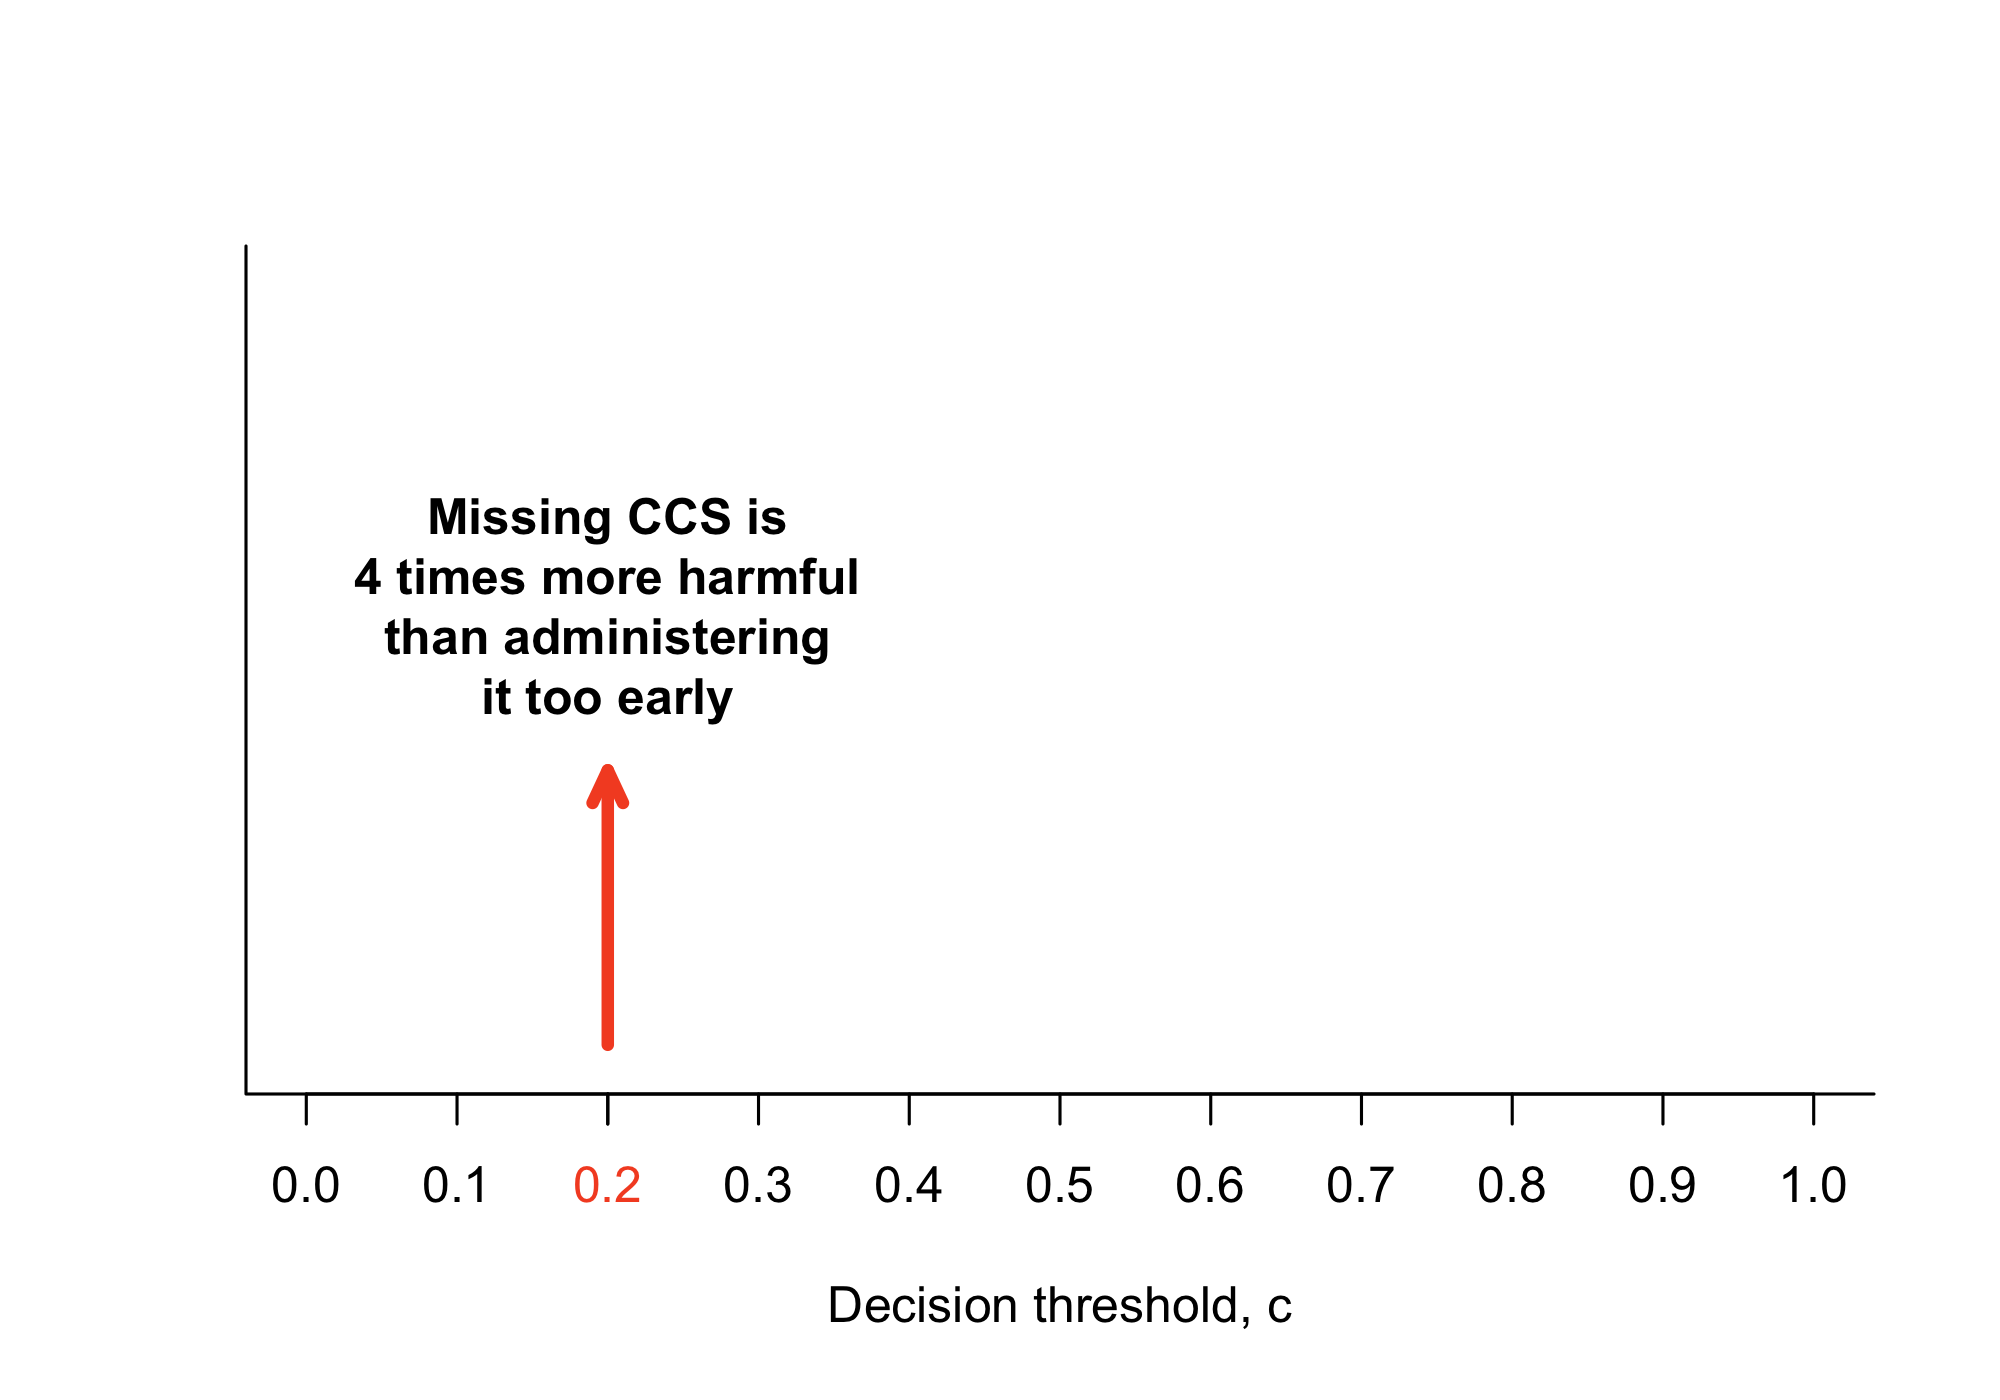
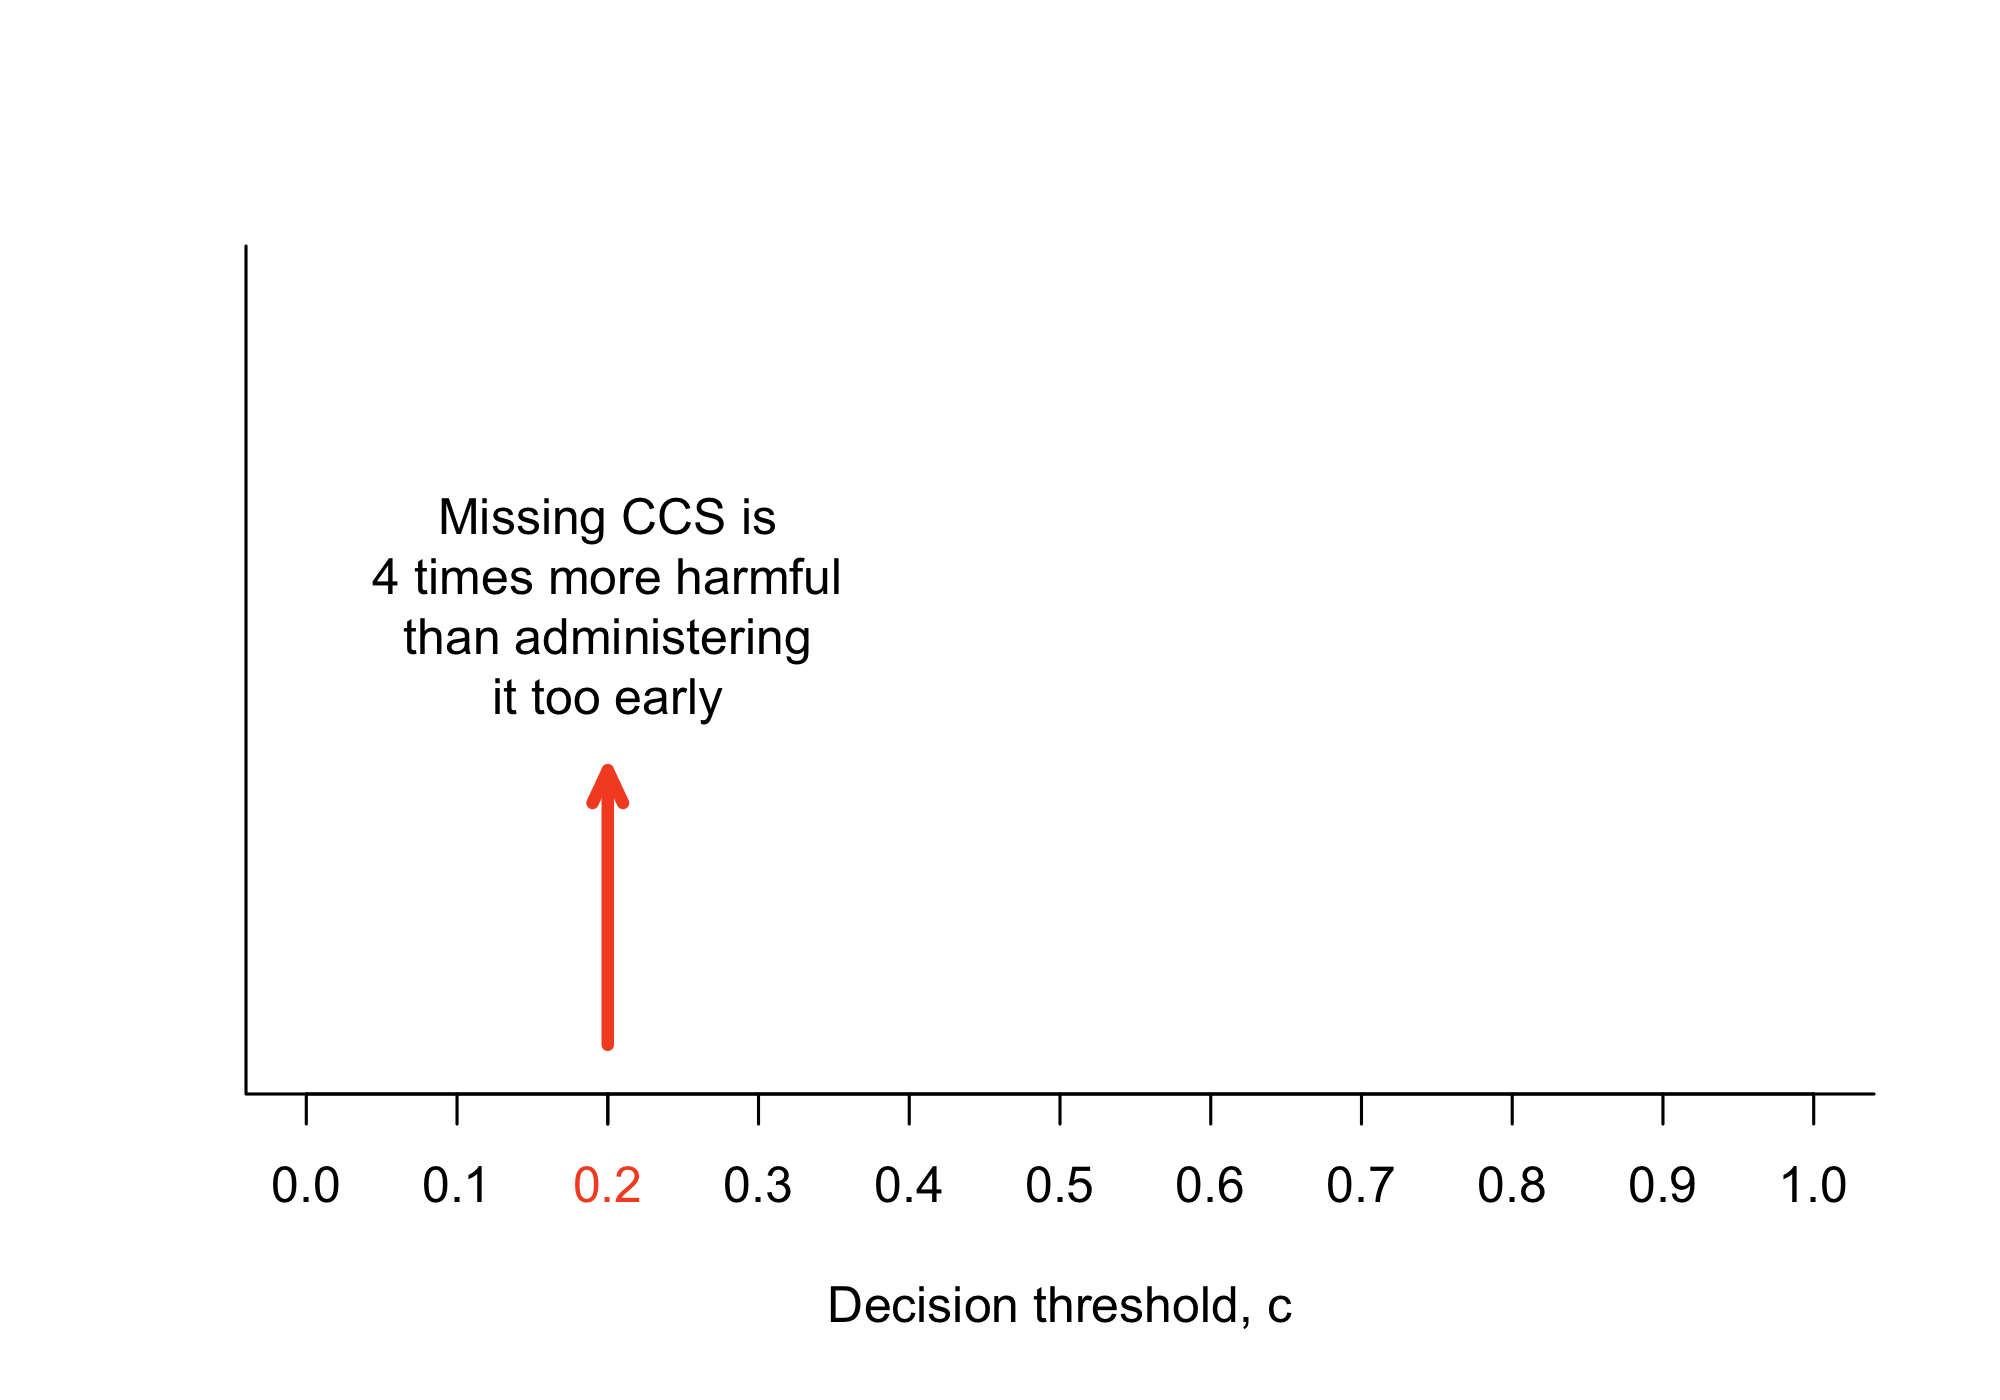
updates axis

Changed region(s): [[0.155, 0.3379, 0.434, 0.5221]]

diff --git a/docs/index.html b/docs/index.html
@@ -9,7 +9,7 @@
 <link href="site_libs/quarto-html/quarto-syntax-highlighting-7b89279ff1a6dce999919e0e67d4d9ec.css" rel="stylesheet" id="quarto-text-highlighting-styles"><meta charset="utf-8">
   <meta name="generator" content="quarto-1.8.25">
 
-  <title>quarto-input673f6930056c46d8</title>
+  <title>quarto-input1e5f6875ae28011f</title>
   <meta name="apple-mobile-web-app-capable" content="yes">
   <meta name="apple-mobile-web-app-status-bar-style" content="black-translucent">
   <meta name="viewport" content="width=device-width, initial-scale=1.0, maximum-scale=1.0, user-scalable=no, minimal-ui">
